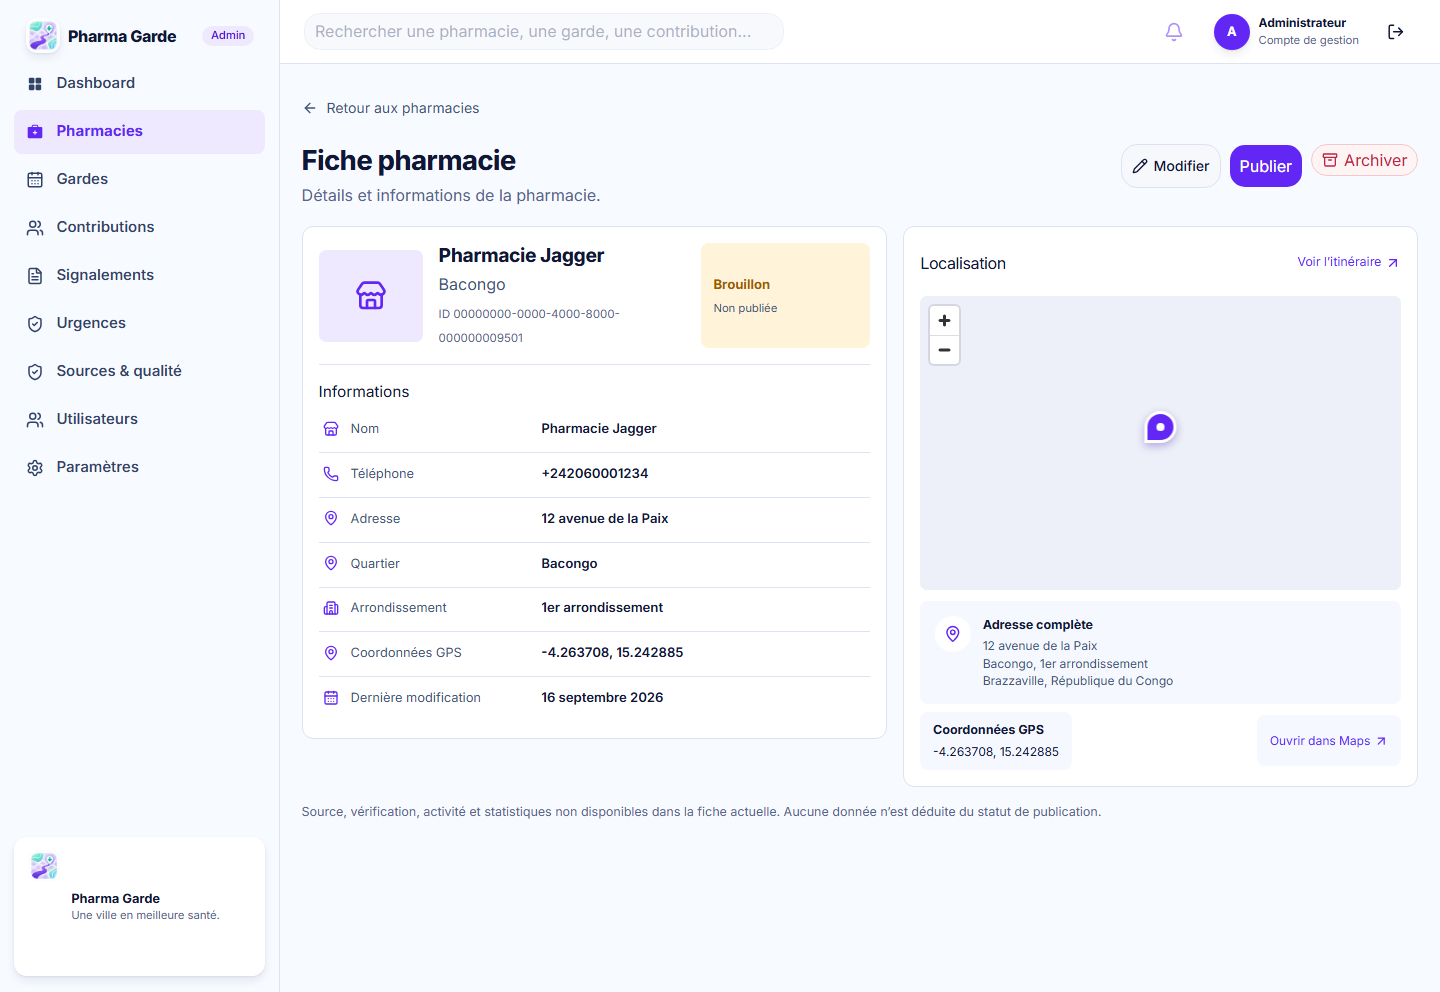
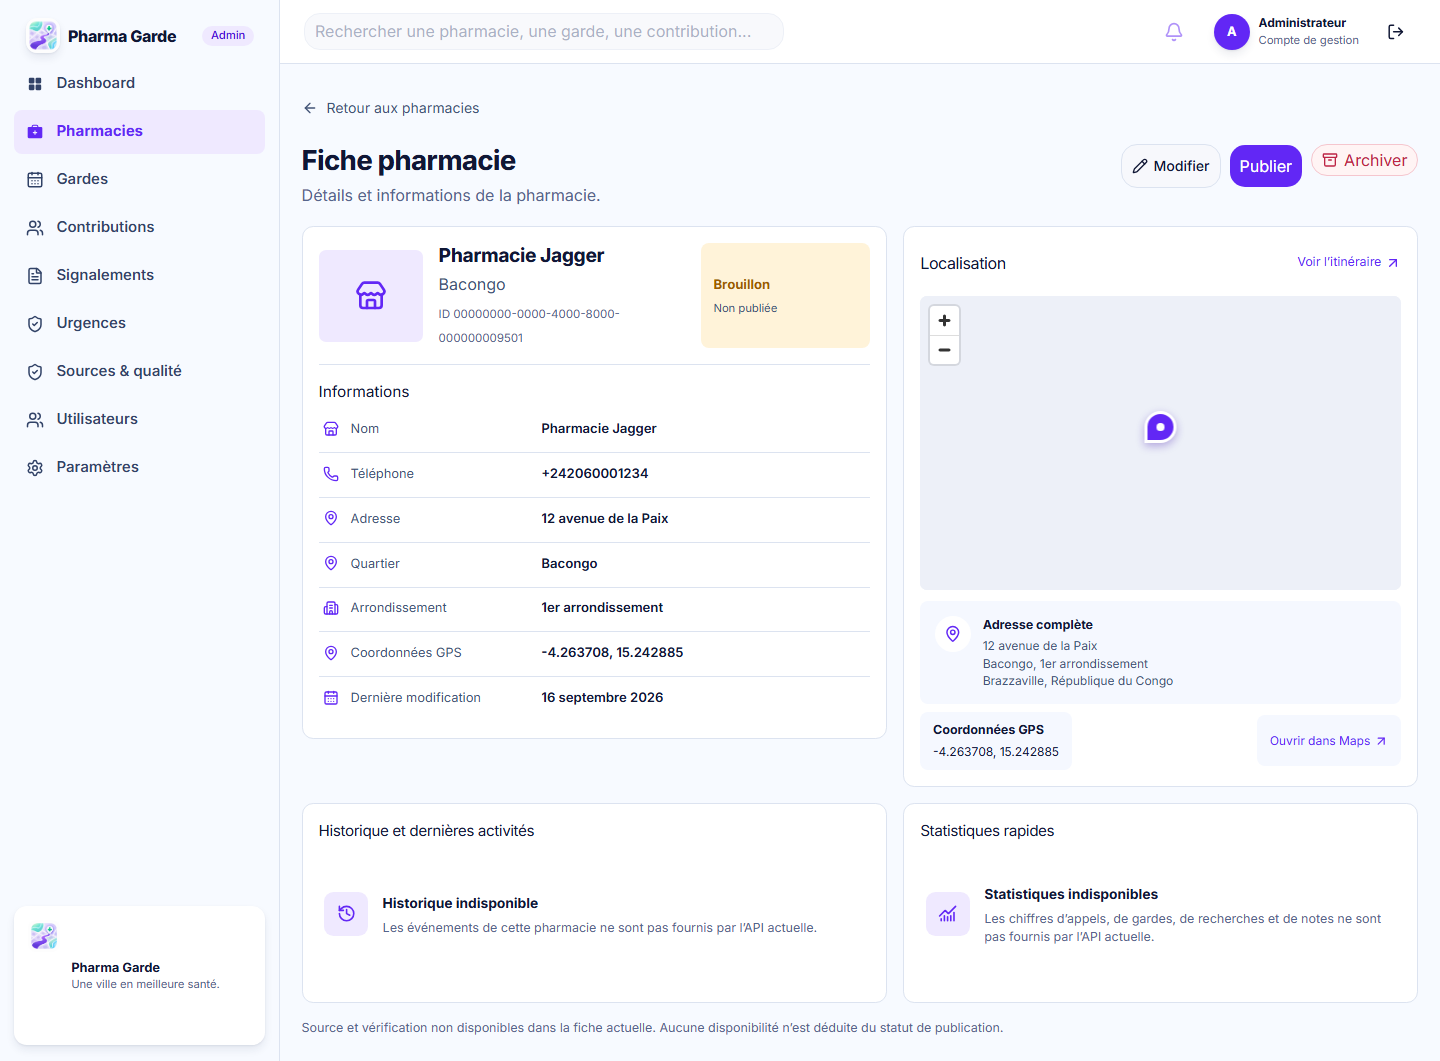
feat(admin): retain honest activity and statistics regions

diff --git a/apps/web/src/features/admin-pharmacy/AdminPharmacyDetail.tsx b/apps/web/src/features/admin-pharmacy/AdminPharmacyDetail.tsx
@@ -7,6 +7,8 @@ import {
   Archive,
   Building2,
   CalendarDays,
+  ChartNoAxesCombined,
+  History,
   MapPin,
   Pencil,
   Phone,
@@ -362,9 +364,47 @@ export function AdminPharmacyDetail({ id }: { id: string }) {
           </div>
         </section>
       </div>
+      <div className="admin-detail__lower-grid">
+        <section
+          aria-labelledby="admin-detail-history"
+          className="admin-detail__panel admin-detail__unavailable-panel"
+        >
+          <h2 id="admin-detail-history">Historique et dernières activités</h2>
+          <div className="admin-detail__unavailable">
+            <span aria-hidden="true" className="admin-detail__unavailable-icon">
+              <History />
+            </span>
+            <div>
+              <strong>Historique indisponible</strong>
+              <p>
+                Les événements de cette pharmacie ne sont pas fournis par l’API
+                actuelle.
+              </p>
+            </div>
+          </div>
+        </section>
+        <section
+          aria-labelledby="admin-detail-statistics"
+          className="admin-detail__panel admin-detail__unavailable-panel"
+        >
+          <h2 id="admin-detail-statistics">Statistiques rapides</h2>
+          <div className="admin-detail__unavailable">
+            <span aria-hidden="true" className="admin-detail__unavailable-icon">
+              <ChartNoAxesCombined />
+            </span>
+            <div>
+              <strong>Statistiques indisponibles</strong>
+              <p>
+                Les chiffres d’appels, de gardes, de recherches et de notes ne
+                sont pas fournis par l’API actuelle.
+              </p>
+            </div>
+          </div>
+        </section>
+      </div>
       <p className="admin-detail__data-note">
-        Source, vérification, activité et statistiques non disponibles dans la
-        fiche actuelle. Aucune donnée n’est déduite du statut de publication.
+        Source et vérification non disponibles dans la fiche actuelle. Aucune
+        disponibilité n’est déduite du statut de publication.
       </p>
     </article>
   );

diff --git a/tests/e2e/admin-pharmacy-detail.spec.ts b/tests/e2e/admin-pharmacy-detail.spec.ts
@@ -95,11 +95,12 @@ test("detail has identity, real-contract status, information and location region
   await expect(page.getByText("Active", { exact: true })).toHaveCount(0);
   await expect(page.getByText("Contribution citoyenne")).toHaveCount(0);
   await expect(
-    page.getByRole("heading", { name: "Statistiques rapides" }),
-  ).toHaveCount(0);
-  await expect(page.getByRole("heading", { name: /Historique/ })).toHaveCount(
-    0,
-  );
+    page.getByRole("region", { name: "Historique et dernières activités" }),
+  ).toContainText("Historique indisponible");
+  await expect(
+    page.getByRole("region", { name: "Statistiques rapides" }),
+  ).toContainText("Statistiques indisponibles");
+  await expect(page.getByText("482", { exact: true })).toHaveCount(0);
 });
 
 test("detail retains edit, publish and archive interactions", async ({
@@ -201,12 +202,19 @@ for (const width of [320, 390, 768, 1440, 1586]) {
     await expect(
       page.getByRole("region", { name: "Localisation", exact: true }),
     ).toBeVisible();
-    if (!process.env.WANZILA_LIVE_MAP) {
-      await expect(page.locator(".admin-detail__map")).toHaveAttribute(
-        "data-map-status",
-        "ready",
-      );
+    if (width === 390 || width === 1440) {
+      await expect(
+        page.getByRole("region", { name: "Historique et dernières activités" }),
+      ).toBeVisible();
+      await expect(
+        page.getByRole("region", { name: "Statistiques rapides" }),
+      ).toBeVisible();
     }
+    await expect(page.locator(".admin-detail__map")).toHaveAttribute(
+      "data-map-status",
+      "ready",
+      { timeout: process.env.WANZILA_LIVE_MAP ? 30000 : 5000 },
+    );
     const widths = await page.locator("html").evaluate((element) => ({
       client: element.clientWidth,
       scroll: element.scrollWidth,

diff --git a/apps/web/src/features/admin-pharmacy/admin-pharmacy-detail.css b/apps/web/src/features/admin-pharmacy/admin-pharmacy-detail.css
@@ -94,6 +94,13 @@
   grid-template-columns: minmax(0, 1.08fr) minmax(0, 0.95fr);
 }
 
+.admin-detail__lower-grid {
+  display: grid;
+  gap: 1rem;
+  grid-template-columns: minmax(0, 1.08fr) minmax(0, 0.95fr);
+  margin-top: 1rem;
+}
+
 .admin-detail__panel {
   background: var(--surface);
   border: 1px solid var(--line);
@@ -407,6 +414,56 @@
   width: 0.9rem;
 }
 
+.admin-detail__unavailable-panel {
+  display: flex;
+  flex-direction: column;
+  min-height: 12.5rem;
+}
+
+.admin-detail__unavailable-panel h2 {
+  font-size: 0.95rem;
+  margin: 0;
+  text-wrap: balance;
+}
+
+.admin-detail__unavailable {
+  align-items: center;
+  display: flex;
+  flex: 1;
+  gap: 0.9rem;
+  padding: 1rem 0.35rem;
+}
+
+.admin-detail__unavailable-icon {
+  align-items: center;
+  background: var(--primary-soft);
+  border-radius: 0.6rem;
+  color: var(--primary);
+  display: flex;
+  flex: none;
+  height: 2.75rem;
+  justify-content: center;
+  width: 2.75rem;
+}
+
+.admin-detail__unavailable-icon svg {
+  height: 1.2rem;
+  width: 1.2rem;
+}
+
+.admin-detail__unavailable strong {
+  font-size: 0.86rem;
+}
+
+.admin-detail__unavailable p {
+  color: var(--muted);
+  font-size: 0.78rem;
+  line-height: 1.5;
+  margin: 0.3rem 0 0;
+  max-width: 34rem;
+  text-wrap: pretty;
+}
+
 .admin-detail__data-note {
   color: var(--muted);
   font-size: 0.78rem;
@@ -440,7 +497,8 @@
 }
 
 @media (max-width: 74rem) {
-  .admin-detail__columns {
+  .admin-detail__columns,
+  .admin-detail__lower-grid {
     grid-template-columns: minmax(0, 1fr);
   }
 }

diff --git a/docs/design/admin-pharmacy-detail-comparison.md b/docs/design/admin-pharmacy-detail-comparison.md
@@ -2,11 +2,11 @@
 
 Référence : [`admin-pharmacy-detail.png`](mockups/admin-pharmacy-detail.png), 1586 × 992. Les captures d'implémentation ci-dessous sont produites avec une pharmacie de test, sans photo ni provenance inventée. **Ce document n'est pas une approbation de fidélité visuelle.**
 
-| Référence desktop                                                       | Implémentation à 1440 px                                                           |
-| ----------------------------------------------------------------------- | ---------------------------------------------------------------------------------- |
-| ![Maquette de fiche pharmacie admin](mockups/admin-pharmacy-detail.png) | ![Fiche pharmacie admin testée à 1440 px](captures/admin-pharmacy-detail-1440.png) |
+| Référence desktop                                                       | Implémentation à 1440 px, fond cartographique réel                                                     |
+| ----------------------------------------------------------------------- | ------------------------------------------------------------------------------------------------------ |
+| ![Maquette de fiche pharmacie admin](mockups/admin-pharmacy-detail.png) | ![Fiche pharmacie admin avec carte réelle à 1440 px](captures/admin-pharmacy-detail-live-map-1440.png) |
 
-Adaptation à 390 px : ![Fiche pharmacie admin testée à 390 px](captures/admin-pharmacy-detail-390.png). Une [capture à la largeur originale de 1586 px](captures/admin-pharmacy-detail-1586.png) est également disponible. Les tests ciblés vérifient aussi 320 et 768 px, avec `scrollWidth === clientWidth` aux cinq largeurs.
+Adaptation à 390 px : ![Fiche pharmacie admin avec carte réelle à 390 px](captures/admin-pharmacy-detail-live-map-390.png). Les [captures déterministes à 1440 px](captures/admin-pharmacy-detail-1440.png), [390 px](captures/admin-pharmacy-detail-390.png) et [1586 px](captures/admin-pharmacy-detail-1586.png) sont également disponibles. Les tests ciblés vérifient aussi 320 et 768 px, avec `scrollWidth === clientWidth` aux cinq largeurs.
 
 ## Décisions fondées sur le contrat actuel
 
@@ -15,8 +15,8 @@ Adaptation à 390 px : ![Fiche pharmacie admin testée à 390 px](captures/admin
 | Statut « Active » et bouton « Désactiver »            | `PUBLISHED` s'affiche « Publiée » ; `DRAFT` « Brouillon » ; `ARCHIVED` « Archivée ». Les actions restent `publish` et `archive` avec confirmation. La publication ne prouve ni ouverture actuelle ni garde.                                        | Une sémantique « Active/À vérifier/Masquée » demanderait une décision métier et une évolution séparée du contrat/API. |
 | Photo de la pharmacie                                 | Icône de lieu neutre, pas de photo extraite de la maquette.                                                                                                                                                                                        | Asset licencié et champ API de photo si cette région doit être alimentée.                                             |
 | Source et dernière vérification                       | Aucune source ni vérification attribuée. Seule `updatedAt` est présentée, explicitement comme « Dernière modification ».                                                                                                                           | Champs de provenance et vérification dans le contrat/API, après accord du lead.                                       |
-| Historique, appels, gardes, recherches, note, courbes | Aucun événement, chiffre ou sparkline de substitution. Une note indique l'indisponibilité de ces données.                                                                                                                                          | Issues #24/#25 et endpoints/contrats adaptés ; déviation visuelle à faire approuver.                                  |
+| Historique, appels, gardes, recherches, note, courbes | Les deux panneaux « Historique et dernières activités » et « Statistiques rapides » conservent la géométrie et la hiérarchie de la maquette, avec des états indisponibles explicites. Aucun événement, chiffre ou sparkline de substitution.       | Issues #24/#25 et endpoints/contrats adaptés ; déviation visuelle à faire approuver.                                  |
 | « Ajouter une garde »                                 | Action absente tant que le parcours #24 n'existe pas.                                                                                                                                                                                              | Route et contrat de création de garde, après #24.                                                                     |
 | Localisation                                          | Carte MapLibre réelle, centrée sur les coordonnées reçues, style `/maps/wanzila-style.json` (ou `VITE_MAP_STYLE_URL`), worker dédié, attribution, redimensionnement et nettoyage. Itinéraire externe seulement quand les coordonnées sont valides. | Le rendu cartographique suit les tuiles OpenStreetMap/OpenFreeMap et ne copie pas l'illustration de la maquette.      |
 
-Les captures Playwright ci-dessus emploient un style MapLibre de test sans tuiles distantes : elles prouvent la géométrie de la vue, le chargement de la carte et le marqueur, mais ne constituent pas une comparaison des détails du fond de carte. Un rendu avec le style de production doit être revu séparément sur réseau. L'écart des régions non alimentées reste **en attente d'approbation du lead** ; aucune entrée `approvedDeviations` du manifeste n'est modifiée ici.
+Les captures à fond réel chargent le style MapLibre de production et les tuiles OpenFreeMap ; ces données cartographiques externes peuvent changer. Les captures déterministes Playwright emploient un style de test sans tuiles distantes : elles prouvent la géométrie, le chargement de MapLibre et le marqueur de façon reproductible en CI. L'écart des régions non alimentées reste **en attente d'approbation du lead** ; aucune entrée `approvedDeviations` du manifeste n'est modifiée ici.

diff --git a/docs/design/captures/README.md b/docs/design/captures/README.md
@@ -3,3 +3,9 @@
 These are browser captures of fixture pharmacy records over live OpenFreeMap tiles at 390 CSS px. They document the candidate state of the #22 map PR and are **not approved visual baselines**. The supplied reference remains in [`../mockups`](../mockups).
 
 To regenerate from the #22 worktree after a web build, set `WANZILA_LIVE_MAP=1` and `WANZILA_MAP_CAPTURE_DIR=docs/design/captures`, then run `pnpm exec playwright test tests/e2e/pharmacy-map-pilot.spec.ts --project=desktop --grep "mobile map presents"`. External map data can change; the default CI test uses intercepted empty vector tiles instead.
+
+## Admin pharmacy detail (#39)
+
+`admin-pharmacy-detail-1440.png`, `-390.png` and `-1586.png` are deterministic captures of the detail with a fixture record and a tile-free MapLibre style. `admin-pharmacy-detail-live-map-1440.png` and `-390.png` use the production style and live OpenFreeMap tiles. Both sets include explicit unavailable states for activity and statistics; neither is an approved baseline. See the [side-by-side comparison and data decisions](../admin-pharmacy-detail-comparison.md).
+
+After a web build, run `pnpm exec playwright test tests/e2e/admin-pharmacy-detail.spec.ts --project=desktop --grep "detail fits"` for deterministic captures in `test-results`. Set `WANZILA_LIVE_MAP=1` for the separate live-cartography capture; this optional run needs network access and waits for the map to load before taking screenshots.
